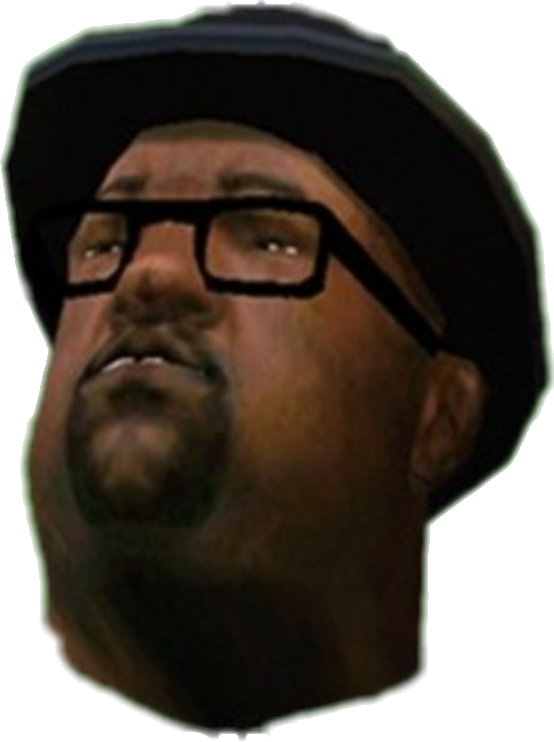
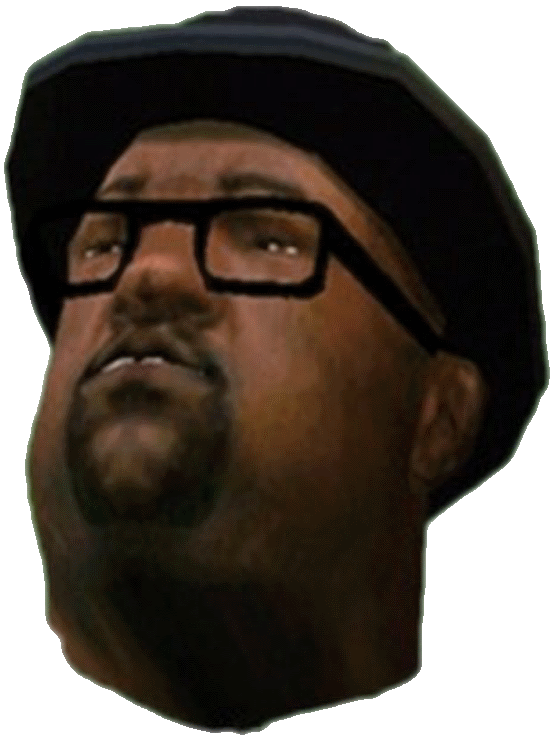
y so smol?

diff --git a/index.html b/index.html
@@ -74,19 +74,19 @@
 			<div class="members">
 			
 				<figure class="member" data-aos="fade-down" data-aos-delay="600" data-aos-duration="500" data-aos-once="true">
-					<img src="img/team/seras.png"/>
+					<img src="img/team/seras.jpg"/>
 						<figcaption class="caption" data-aos="fade-up" data-aos-delay="800" data-aos-duration="500"data-aos-once="true">H0RNI3</figcaption>
 							<p data-aos="fade-up" data-aos-delay="1000" data-aos-duration="1000">Creator of the initial concept.</p>
 				</figure>
 			
 				<figure class="member" data-aos="fade-down" data-aos-delay="700" data-aos-duration="500" data-aos-once="true">
-					<img src="img/team/seras-stache.png"/>
+					<img src="img/team/seras-stache.jpg"/>
 						<figcaption class="caption" data-aos="fade-up" data-aos-delay="900" data-aos-duration="500"data-aos-once="true"><strike>H0RNI3</strike> the lead "dev"</figcaption>
 							<p data-aos="fade-up" data-aos-delay="1100" data-aos-duration="1000">"Developer" with serious code cleptomania.</p>
 				</figure>
 			
 				<figure class="member" data-aos="fade-down" data-aos-delay="800" data-aos-duration="500" data-aos-once="true">
-					<img src="img/team/seras-sombrero.png"/>
+					<img src="img/team/seras-sombrero.jpg"/>
 						<figcaption class="caption" data-aos="fade-up" data-aos-delay="1000" data-aos-duration="500"data-aos-once="true">Senor HR0NI3</figcaption>
 							<p data-aos="fade-up" data-aos-delay="1200" data-aos-duration="1000">Lead artist. Will work for food.</p>
 				</figure>

diff --git a/css/style.css b/css/style.css
@@ -399,7 +399,7 @@ h3 {
   box-sizing: content-box;
   padding: 120px;
   border: none;
-  background: url("../img/misc/1x1.png");
+  background: url("../img/icons/1x1.png");
   -webkit-background-size: contain;
   background-size: contain;
   background-repeat: no-repeat;
